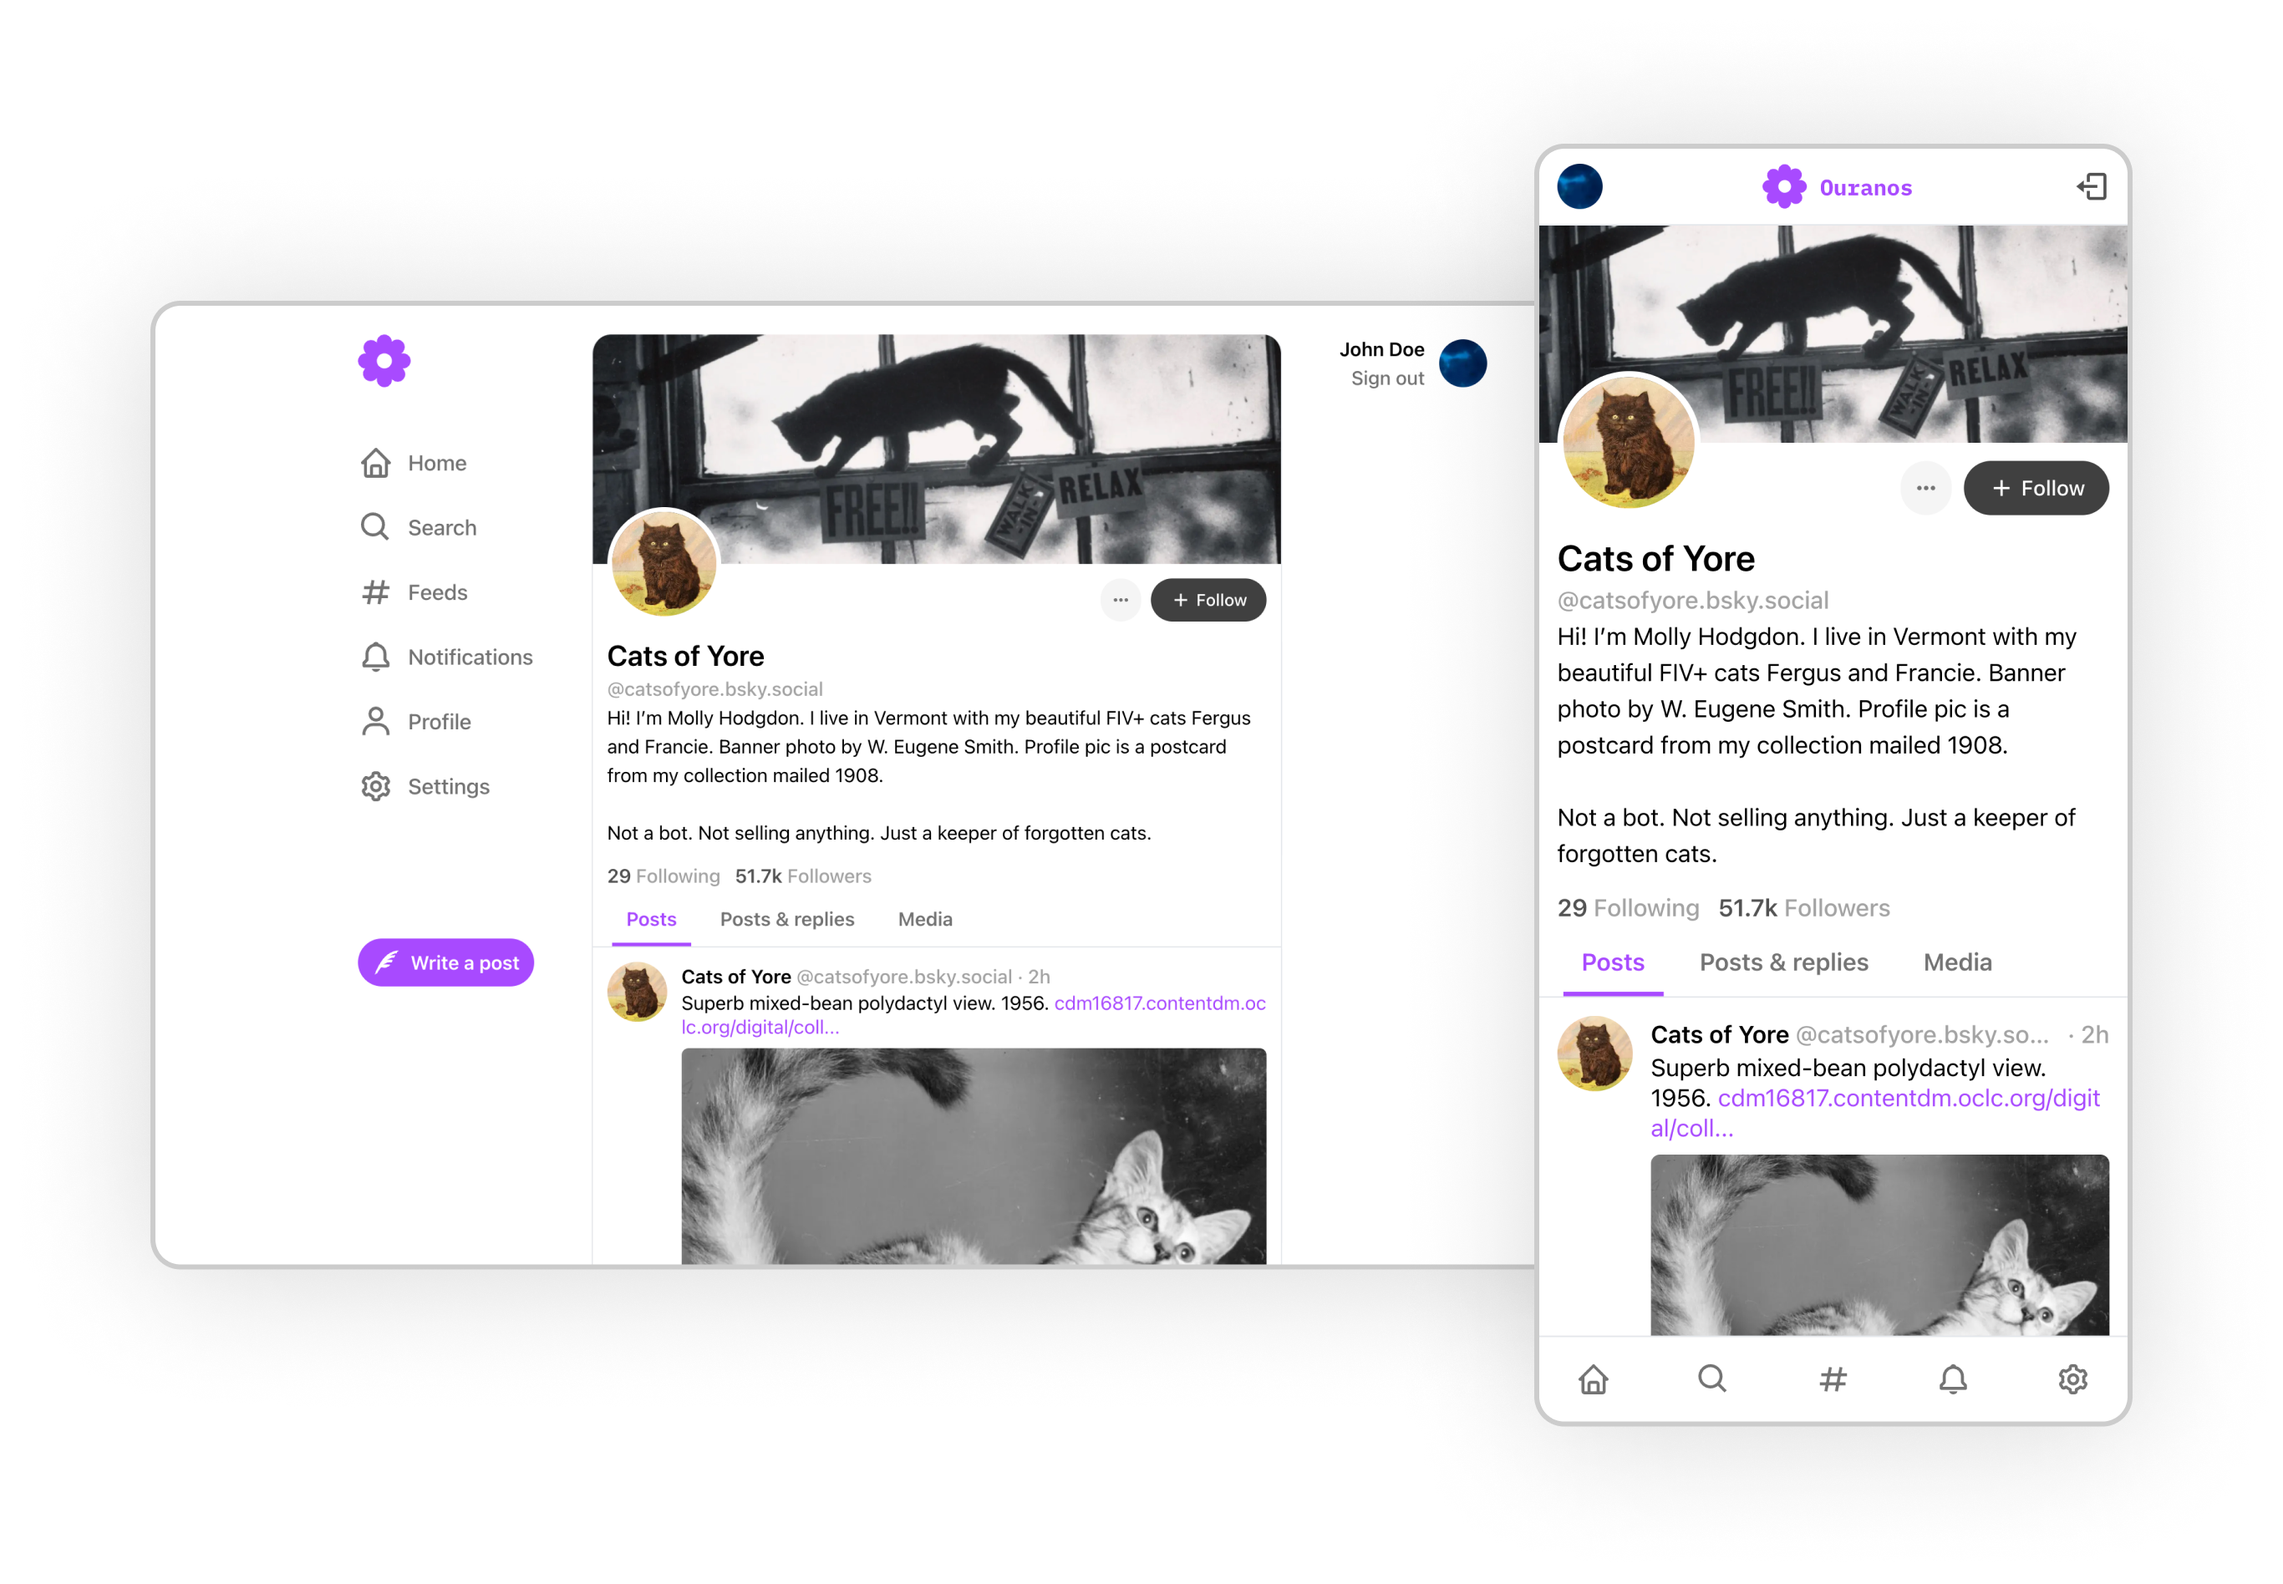
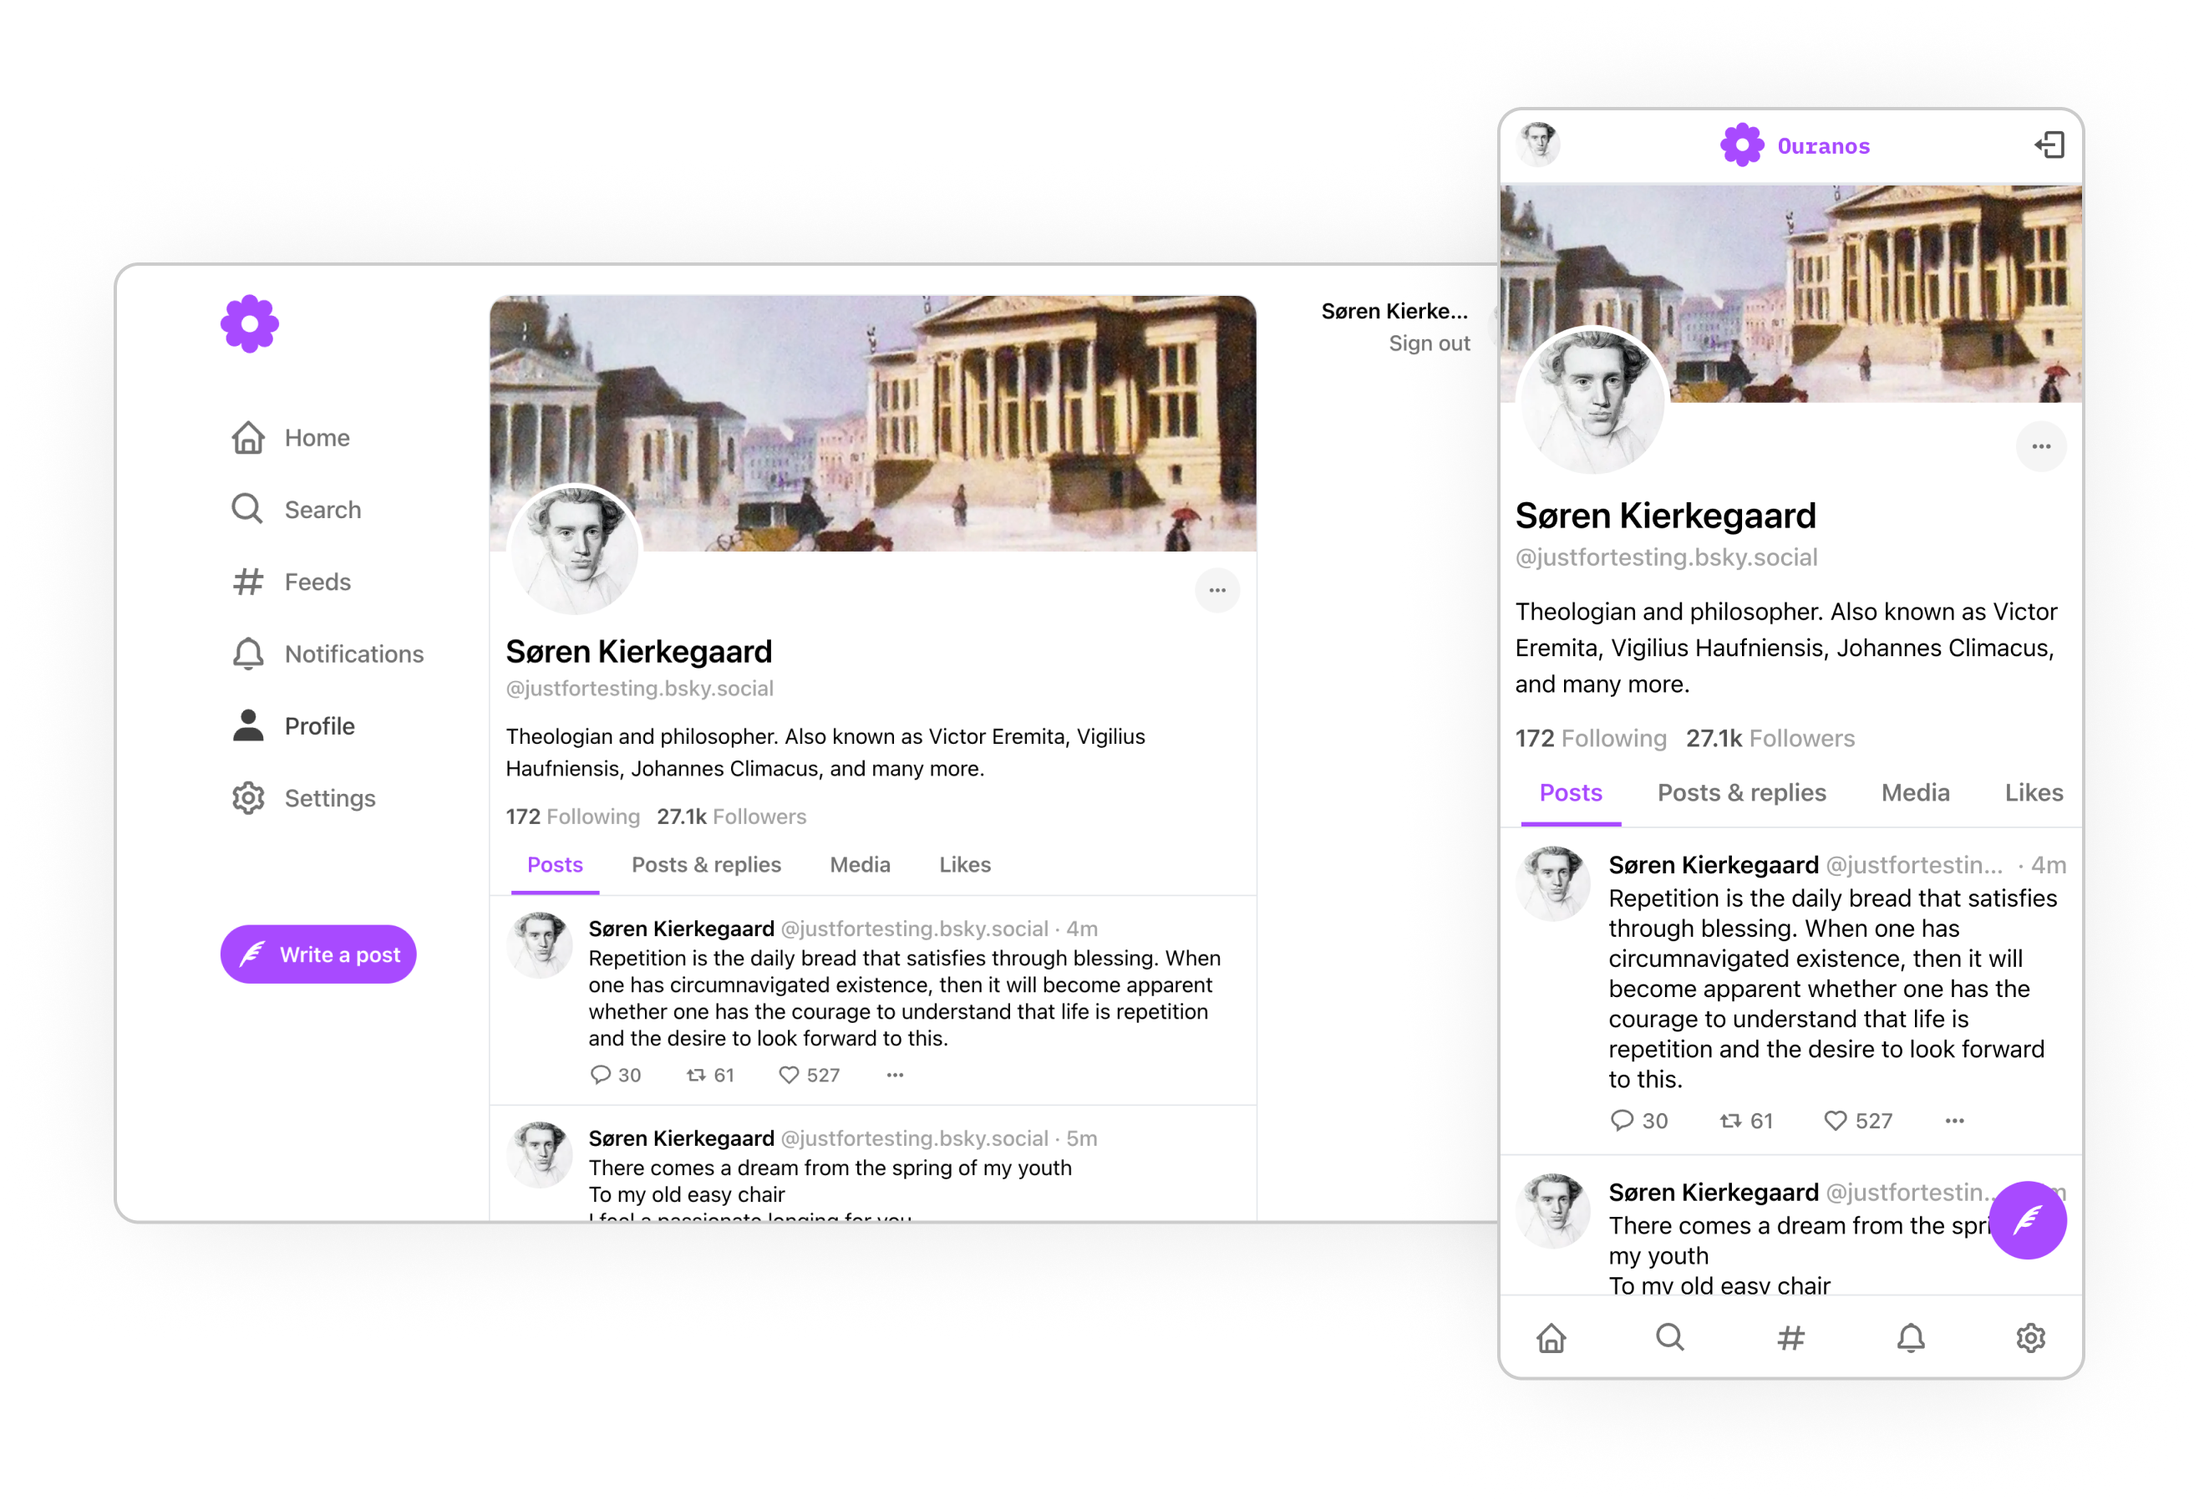
Update landing page, add compose button to user posts container

Changed region(s): [[0.0623, 0.0624, 0.9658, 0.9042], [0.0935, 0.3742, 0.1558, 0.4053], [0.1246, 0.5301, 0.1558, 0.5612]]

diff --git a/src/app/page.tsx b/src/app/page.tsx
@@ -14,8 +14,8 @@ export default function Home() {
         </Link>
       </header>
       <section className="mt-16 max-w-xl mx-auto animate-fade-up animate-delay-150">
-        <small className="inline-block px-3 py-2 mb-1 rounded-full bg-primary/10 font-semibold text-xs text-primary">
-          In Public Beta 🎉
+        <small className="inline-block px-3 py-2 mb-1 rounded-full bg-primary/10 font-medium text-[0.7rem] text-primary">
+          In Early Access 🎉
         </small>
         <h1 className="text-4xl font-medium text-neutral-600 max-w-lg">
           Your friendly Bluesky client for the web
@@ -51,7 +51,7 @@ export default function Home() {
         />
       </div>
       <footer className="mt-16 text-center text-sm font-mono text-neutral-500 animate-fade-up animate-delay-500">
-        OURANOS · PUBLIC BETA · {new Date().getFullYear()}
+        OURANOS · EARLY ACCESS · {new Date().getFullYear()}
       </footer>
     </main>
   );

diff --git a/src/app/(site)/about/page.tsx b/src/app/(site)/about/page.tsx
@@ -14,7 +14,7 @@ export default function Page() {
           Home
         </Link>
       </header>
-      <section className="mt-16 max-w-xl mx-auto">
+      <section className="mt-16 max-w-xl mx-auto animate-fade">
         <h1 className="mb-6 text-4xl font-medium text-neutral-600 max-w-lg">
           About
         </h1>
@@ -117,7 +117,7 @@ export default function Page() {
         </p>
       </section>
       <footer className="mt-16 text-center text-sm font-mono text-neutral-500">
-        OURANOS · PUBLIC BETA · {new Date().getFullYear()}
+        OURANOS · EARLY ACCESS · {new Date().getFullYear()}
       </footer>
     </main>
   );

diff --git a/src/components/contentDisplay/notification/NotificationItem.tsx b/src/components/contentDisplay/notification/NotificationItem.tsx
@@ -119,7 +119,7 @@ export default function NotificationItem(props: Props) {
   } else {
     return (
       <div
-        className={`flex flex-col justify-between p-3 border border-x-0 md:border-x first:border-t last:border-b even:[&:not(:last-child)]:border-b-0 odd:[&:not(:last-child)]:border-b-0 first:md:rounded-t-2xl hover:bg-neutral-50 ${
+        className={`flex flex-col justify-between p-3 border border-x-0 md:border-x first:border-t last:border-b even:[&:not(:last-child)]:border-b-0 odd:[&:not(:last-child)]:border-b-0 first:md:rounded-t-2xl ${
           !isRead && "bg-neutral-100"
         }`}
       >

diff --git a/src/containers/UserPostsContainer.tsx b/src/containers/UserPostsContainer.tsx
@@ -11,6 +11,7 @@ import { useQuery } from "@tanstack/react-query";
 import PostContainer from "./PostContainer";
 import usePreferences from "@/lib/hooks/bsky/actor/usePreferences";
 import { getContentFilter } from "@/lib/utils/feed";
+import ComposeButton from "@/components/actions/composeButton/ComposeButton";
 
 interface Props {
   mode: UserPostMode;
@@ -53,6 +54,7 @@ export default function UserPostsConatiner(props: Props) {
 
   return (
     <div>
+      <ComposeButton mode="float" />
       {!isBlocked &&
         !hasBlockedYou &&
         userPostsData &&

diff --git a/src/components/actions/composeButton/ComposeButton.tsx b/src/components/actions/composeButton/ComposeButton.tsx
@@ -32,7 +32,7 @@ export default function ComposeButton(props: Props) {
       {mode === "fixed" && (
         <button
           onClick={toggleComposer}
-          className="p-3 flex items-center gap-2 bg-primary lg:px-3 lg:py-2 rounded-full text-white font-semibold hover:brightness-95"
+          className="p-3.5 flex items-center gap-2 bg-primary lg:px-3 lg:py-2.5 rounded-full text-white font-semibold hover:brightness-95"
         >
           <Icon icon="mdi:feather" className="text-2xl" />
           <span className="hidden lg:inline">Write a post</span>

diff --git a/src/components/contentDisplay/profileHeader/ProfileHeader.tsx b/src/components/contentDisplay/profileHeader/ProfileHeader.tsx
@@ -50,7 +50,7 @@ export default function ProfileHeader(props: Props) {
         <ProfileHeaderSkeleton />
       )}
       {profile && contentFilter && (
-        <section className="border-0 border-b md:border-x md:rounded-t-2xl overflow-hidden">
+        <section className="border-0 border-y md:border-x md:rounded-t-2xl overflow-hidden">
           <div className="relative">
             {profile.banner ? (
               <Button

diff --git a/src/app/(auth)/login/layout.tsx b/src/app/(auth)/login/layout.tsx
@@ -11,7 +11,7 @@ export default async function InventoryLayout({
   children: React.ReactNode;
 }) {
   return (
-    <main className="min-h-[100svh] flex items-center justify-center ">
+    <main className="min-h-[100svh] flex items-center justify-center animate-fade animate-duration-200">
       {children}
     </main>
   );

diff --git a/src/components/navigational/sidePanel/SidePanel.tsx b/src/components/navigational/sidePanel/SidePanel.tsx
@@ -23,7 +23,7 @@ export default function SidePanel() {
         />
       </Button>
       <Navbar />
-      <div className="mt-28">
+      <div className="mt-20">
         <ComposeButton mode="fixed" />
       </div>
     </menu>
